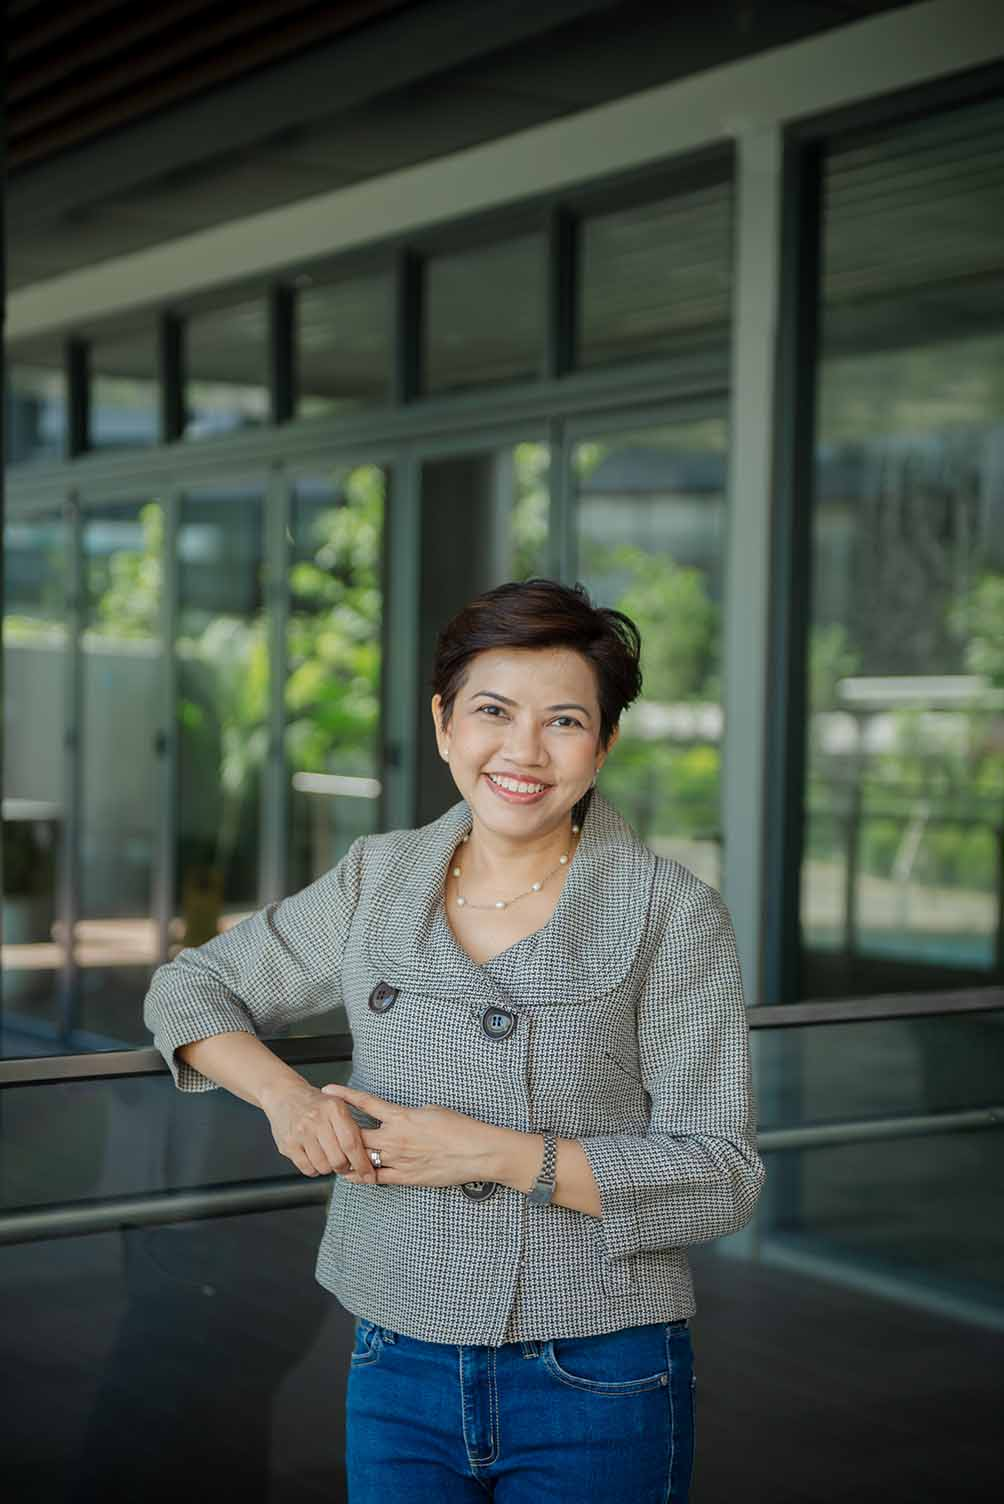
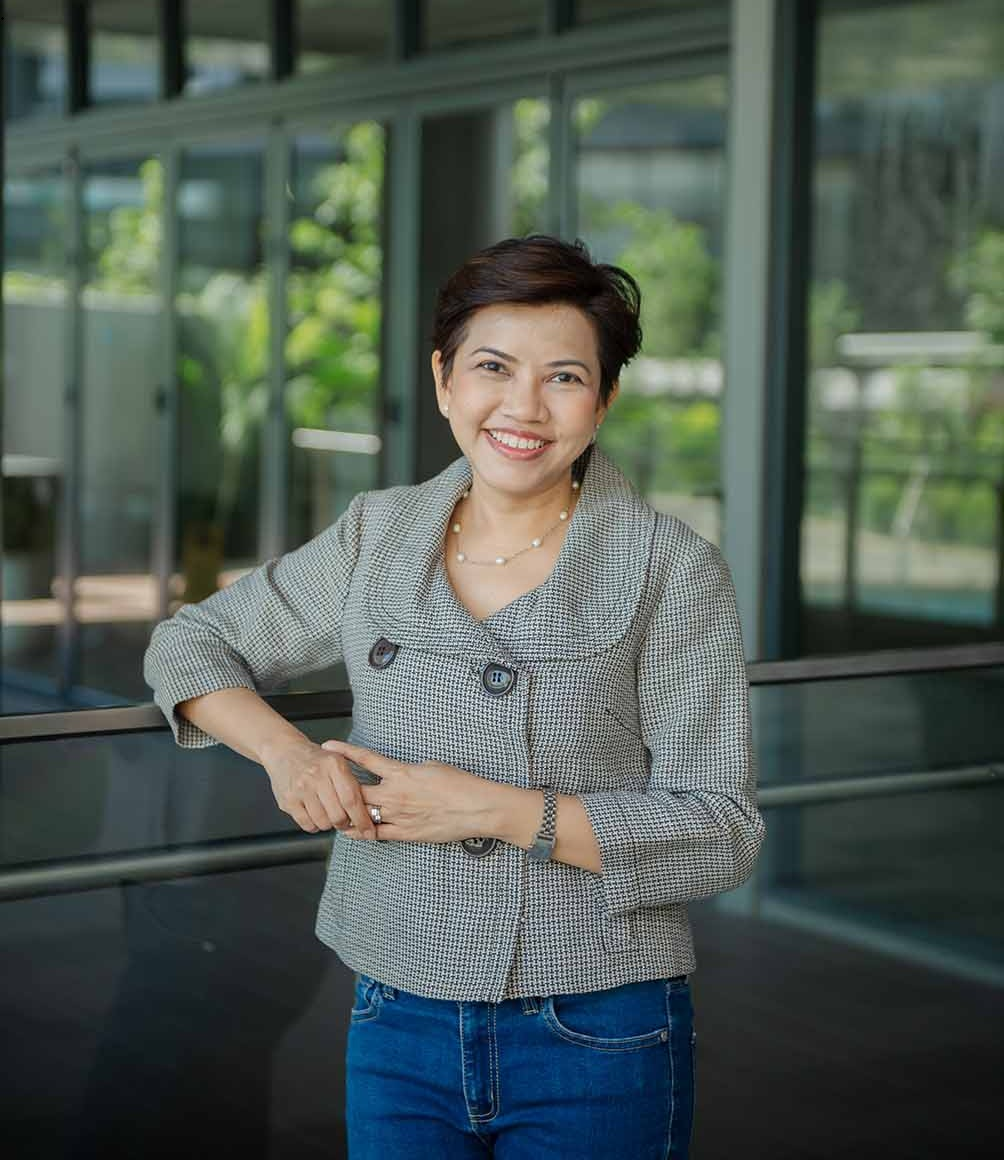
feat: redesign about page layout and update stylistic structure with new CSS and image assets

diff --git a/about.html b/about.html
@@ -9,8 +9,7 @@
     content="Satu Insights was founded on the belief that good research is both disciplined and human.">
   <link rel="preconnect" href="https://fonts.googleapis.com">
   <link rel="preconnect" href="https://fonts.gstatic.com" crossorigin>
-  <link href="https://fonts.googleapis.com/css2?family=DM+Sans:wght@400;500;600;700&display=swap"
-    rel="stylesheet">
+  <link href="https://fonts.googleapis.com/css2?family=DM+Sans:wght@400;500;600;700&display=swap" rel="stylesheet">
   <link rel="icon" type="image/png" href="img/favicon.png">
   <link rel="stylesheet" href="css/style.css">
 </head>
@@ -47,104 +46,107 @@
   <main>
     <section class="page-hero">
       <div class="container">
-        <h1 class="hero-animate">A research practice built on trust and intent.</h1>
-        <p class="page-sub hero-animate hero-animate-delay-1">Satu Insights was founded on the belief that good research
-          is both disciplined and human.</p>
+        <h1 class="hero-animate">A research practice<br>built on trust and intent</h1>
+        <p class="page-sub hero-animate hero-animate-delay-1" style="max-width: 900px;">Satu Insights was founded on the
+          belief that good research is both disciplined and human.<br><strong>"Satu" means one in Malay and Indonesian.
+            One team, one focus, one shared commitment to quality.</strong> <br> Satu Insights brings together
+          experienced researchers who value clarity, integrity, and thoughtful collaboration. We work closely with
+          clients across industries and geographies, supporting decisions that matter through research that is careful,
+          credible, and context-aware.<br>We do not believe in rushing insight or overcomplicating findings. Our role is
+          to listen carefully, ask the right questions, and translate complexity into understanding.</p>
       </div>
     </section>
 
-    <div class="white-bg-wrapper">
-    <section class="section">
-      <div class="container narrow reveal">
-        <p class="lead">"Satu" means one in Malay and Indonesian. One team, one focus, one shared commitment to quality.
-        </p>
-        <p>Satu Insights brings together experienced researchers who value clarity, integrity, and thoughtful
-          collaboration. We work closely with clients across industries and geographies, supporting decisions that
-          matter through research that is careful, credible, and context-aware.</p>
-        <p>We do not believe in rushing insight or overcomplicating findings. Our role is to listen carefully, ask the
-          right questions, and translate complexity into understanding.</p>
-      </div>
-    </section>
+    <div class="white-bg-wrapper no-bg-image">
 
-    <section class="section">
-      <div class="container narrow reveal">
-        <h2 class="section-title">Our Story</h2>
-        <p>Satu Insights grew out of a simple observation: that the best research comes from people who are genuinely
-          invested in the question being asked.</p>
-        <p>Our founder, Jennifer, spent 15 years leading research projects across Southeast Asia, working with global
-          agencies, regional corporates, and local brands. Over time, a small group of like-minded researchers, peers
-          with shared values and shared standards, began working together on projects that called for that kind of care.
-        </p>
-        <p>Satu Insights is the home that grew from those collaborations. A collective, not a corporation. A practice
-          built on relationships, not transactions.</p>
-        <p>We are based in Jakarta, Indonesia, and work with clients across Southeast Asia and globally.</p>
-      </div>
-    </section>
-
-    <section class="section">
-      <div class="container">
-        <h2 class="section-title reveal">Our Values</h2>
-        <div class="card-grid card-grid-3">
-          <article class="value-card">
-            <h3>Integrity</h3>
-            <p>We are deeply committed to data quality. From recruitment and research design through to quality control
-              and reporting, we ensure that the insights we deliver are grounded in real-world contexts and honest
-              methodology.</p>
-          </article>
-          <article class="value-card">
-            <h3>Trust</h3>
-            <p>Trust is earned through consistency and transparency. We share findings honestly, communicate openly, and
-              build relationships based on mutual respect. Many of our client partnerships span multiple years. That
-              continuity is something we value and work to deserve.</p>
-          </article>
-          <article class="value-card">
-            <h3>Care</h3>
-            <p>Our work is shaped by care: for the research, for the people behind the data, and for the decisions our
-              clients need to make.</p>
-          </article>
-        </div>
-      </div>
-    </section>
-
-    <section class="section">
-      <div class="container">
-        <h2 class="section-title reveal">Meet the Founder</h2>
-        <div class="founder-block reveal">
-          <div class="founder-photo">
-            <img src="img/founder.jpg" alt="Jennifer, Founder and Lead Research Consultant" style="width: 100%; height: 100%; object-fit: cover;">
-          </div>
-          <div class="founder-bio">
-            <h3>Jennifer, Founder and Lead Research Consultant</h3>
-            <p>Jennifer is a Malaysian-born market research consultant who has been based in Jakarta, Indonesia since
-              2014. With 30 years of professional experience and 15 years dedicated specifically to market research, she
-              has led hundreds of studies across banking, FMCG, technology, healthcare, automotive, and more.</p>
-            <p>She has worked on both sides of the research table: as client commissioning research, and as the
-              consultant delivering it. That dual perspective shapes how she frames questions, challenges briefs, and
-              translates findings into direction that clients can actually use.</p>
-            <p>Jen founded Satu Insights to build something with staying power: a small, trusted practice where senior
-              expertise is the standard, not the exception.</p>
-            <p>She is trilingual in English, Malay, and Indonesian, and brings genuine regional fluency to every project
-              she leads.</p>
-            <p class="founder-contact"><a href="mailto:[email redacted]">[email redacted]</a></p>
+      <section class="section">
+        <div class="container reveal">
+          <h2 class="section-title" style="margin-bottom: 1.5rem;">Our Story</h2>
+          <div class="story-block">
+            <div class="story-content">
+              <p>Satu Insights grew out of a simple observation: that the best research comes from people who are genuinely
+                invested in the question being asked.</p>
+              <p>Our founder, Jennifer, spent 15 years leading research projects across Southeast Asia, working with global
+                agencies, regional corporates, and local brands. Over time, a small group of like-minded researchers, peers
+                with shared values and shared standards, began working together on projects that called for that kind of
+                care.
+              </p>
+              <p>Satu Insights is the home that grew from those collaborations. A collective, not a corporation. A practice
+                built on relationships, not transactions.</p>
+              <p>We are based in Jakarta, Indonesia, and work with clients across Southeast Asia and globally.</p>
+              <p>Satu Insights is powered by a close-knit group of experienced researchers who share a commitment to
+                careful, quality-focused work.</p>
+              <p>Each member of the team comes with formal research training and years of hands-on experience across
+                research execution and client management. We work collaboratively, support one another, and hold shared
+                standards for every project we take on.</p>
+              <p>For our clients, this means consistent quality, thoughtful collaboration, and a team that is genuinely
+                engaged from start to finish.</p>
+            </div>
+            <div class="story-image">
+              <img src="img/our_team.jpg" alt="Satu Insights Team"
+                style="width: 100%; border-radius: var(--radius); box-shadow: var(--shadow-card);">
+            </div>
           </div>
         </div>
-      </div>
-    </section>
+      </section>
 
-    <section class="section">
-      <div class="container narrow reveal">
-        <h2 class="section-title">Our Team</h2>
-        <img src="img/our_team.jpg" alt="Satu Insights Team" style="width: 100%; margin-bottom: 2rem; border-radius: var(--radius); box-shadow: var(--shadow-card);">
-        <p>Satu Insights is powered by a close-knit group of experienced researchers who share a commitment to careful,
-          quality-focused work.</p>
-        <p>Each member of the team comes with formal research training and years of hands-on experience across research
-          execution and client management. We work collaboratively, support one another, and hold shared standards for
-          every project we take on.</p>
-        <p>For our clients, this means consistent quality, thoughtful collaboration, and a team that is genuinely
-          engaged from start to finish.</p>
-      </div>
-    </section>
-  </div>
+      <section class="section" style="background-color: #8CA7A9;">
+        <div class="container">
+          <h2 class="section-title reveal" style="margin-bottom: 2rem;">Our Values</h2>
+          <div class="corrigan-list reveal">
+            <div class="corrigan-item">
+              <h3>Integrity</h3>
+              <p>We are deeply committed to data quality. From recruitment and research design through to quality
+                control
+                and reporting, we ensure that the insights we deliver are grounded in real-world contexts and honest
+                methodology.</p>
+            </div>
+            <div class="corrigan-item">
+              <h3>Trust</h3>
+              <p>Trust is earned through consistency and transparency. We share findings honestly, communicate openly,
+                and
+                build relationships based on mutual respect. Many of our client partnerships span multiple years. That
+                continuity is something we value and work to deserve.</p>
+            </div>
+            <div class="corrigan-item">
+              <h3>Care</h3>
+              <p>Our work is shaped by care: for the research, for the people behind the data, and for the decisions our
+                clients need to make.</p>
+            </div>
+          </div>
+        </div>
+      </section>
+
+      <section class="section">
+        <div class="container">
+          <h2 class="section-title reveal" style="margin-bottom: 0.5rem;">Meet the Founder</h2>
+          <div class="founder-block reveal">
+            <div class="founder-photo">
+              <img src="img/founder.jpg" alt="Jennifer, Founder and Lead Research Consultant"
+                style="width: 100%; height: 100%; object-fit: cover;">
+            </div>
+            <div class="founder-bio">
+              <h3>Jennifer, Founder and Lead Research Consultant</h3>
+              <p>Jennifer is a Malaysian-born market research consultant who has been based in Jakarta, Indonesia since
+                2014. With 30 years of professional experience and 15 years dedicated specifically to market research,
+                she
+                has led hundreds of studies across banking, FMCG, technology, healthcare, automotive, and more.</p>
+              <p>She has worked on both sides of the research table: as client commissioning research, and as the
+                consultant delivering it. That dual perspective shapes how she frames questions, challenges briefs, and
+                translates findings into direction that clients can actually use.</p>
+              <p>Jen founded Satu Insights to build something with staying power: a small, trusted practice where senior
+                expertise is the standard, not the exception.</p>
+              <p>She is trilingual in English, Malay, and Indonesian, and brings genuine regional fluency to every
+                project
+                she leads.</p>
+              <p class="founder-contact"><a href="mailto:[email redacted]">[email redacted]</a></p>
+            </div>
+          </div>
+        </div>
+      </section>
+
+
+    </div>
   </main>
 
   <footer class="site-footer">

diff --git a/css/style.css b/css/style.css
@@ -391,7 +391,7 @@ ul {
 
 .hero-sub,
 .page-sub {
-  font-size: clamp(1.35rem, 3vw, 1.6rem);
+  font-size: clamp(1.6rem, 3.5vw, 1.9rem);
   font-weight: 400;
   max-width: 44ch;
   color: var(--color-text-muted);
@@ -604,19 +604,33 @@ p {
   margin-bottom: 0;
 }
 
+/* Story */
+.story-block {
+  display: grid;
+  grid-template-columns: 1fr 1fr;
+  gap: 3.5rem;
+  align-items: center;
+}
+
+@media (max-width: 991px) {
+  .story-block {
+    grid-template-columns: 1fr;
+  }
+}
+
 /* Founder */
 .founder-block {
   display: grid;
-  grid-template-columns: 280px 1fr;
+  grid-template-columns: 1fr 1fr;
   gap: 3.5rem;
-  align-items: start;
+  align-items: center;
 }
 
 .founder-photo {
-  aspect-ratio: 3 / 4;
+  aspect-ratio: 1 / 1;
   background: rgba(198, 208, 149, 0.1);
   border: 2px solid rgba(198, 208, 149, 0.35);
-  border-radius: var(--radius);
+  border-radius: 0;
   display: flex;
   align-items: center;
   justify-content: center;
@@ -936,7 +950,7 @@ p {
   }
 
   .founder-photo {
-    max-width: 280px;
+    max-width: 100%;
   }
 
   .contact-layout {
@@ -1069,7 +1083,7 @@ p {
 }
 
 .white-bg-wrapper {
-  background-color: #f7f7f8;
+  background-color: #FFFFFF;
   position: relative;
 }
 
@@ -1088,9 +1102,19 @@ p {
   background-size: auto 110vh;
   background-position: left center;
   background-repeat: no-repeat;
-  opacity: 0.1;
+  opacity: 1;
   pointer-events: none;
   z-index: 0;
+}
+
+.no-bg-image::before {
+  background-image: none !important;
+}
+
+@media (max-width: 991px) {
+  .white-bg-wrapper::before {
+    opacity: 0.1 !important;
+  }
 }
 
 .white-bg-wrapper>* {
@@ -1287,8 +1311,14 @@ p {
   background-size: auto 110vh;
   background-position: left center;
   background-repeat: no-repeat;
-  opacity: 0.1;
+  opacity: 1;
   pointer-events: none;
+}
+
+@media (max-width: 991px) {
+  .ambient-bg::after {
+    opacity: 0.1 !important;
+  }
 }
 
 /* Align layout with header */
@@ -1463,7 +1493,7 @@ p {
 }
 
 .founder-photo img {
-  border-radius: 50% 32px 32px 32px !important;
+  border-radius: 0 !important;
   transition: transform 0.5s ease !important;
 }
 